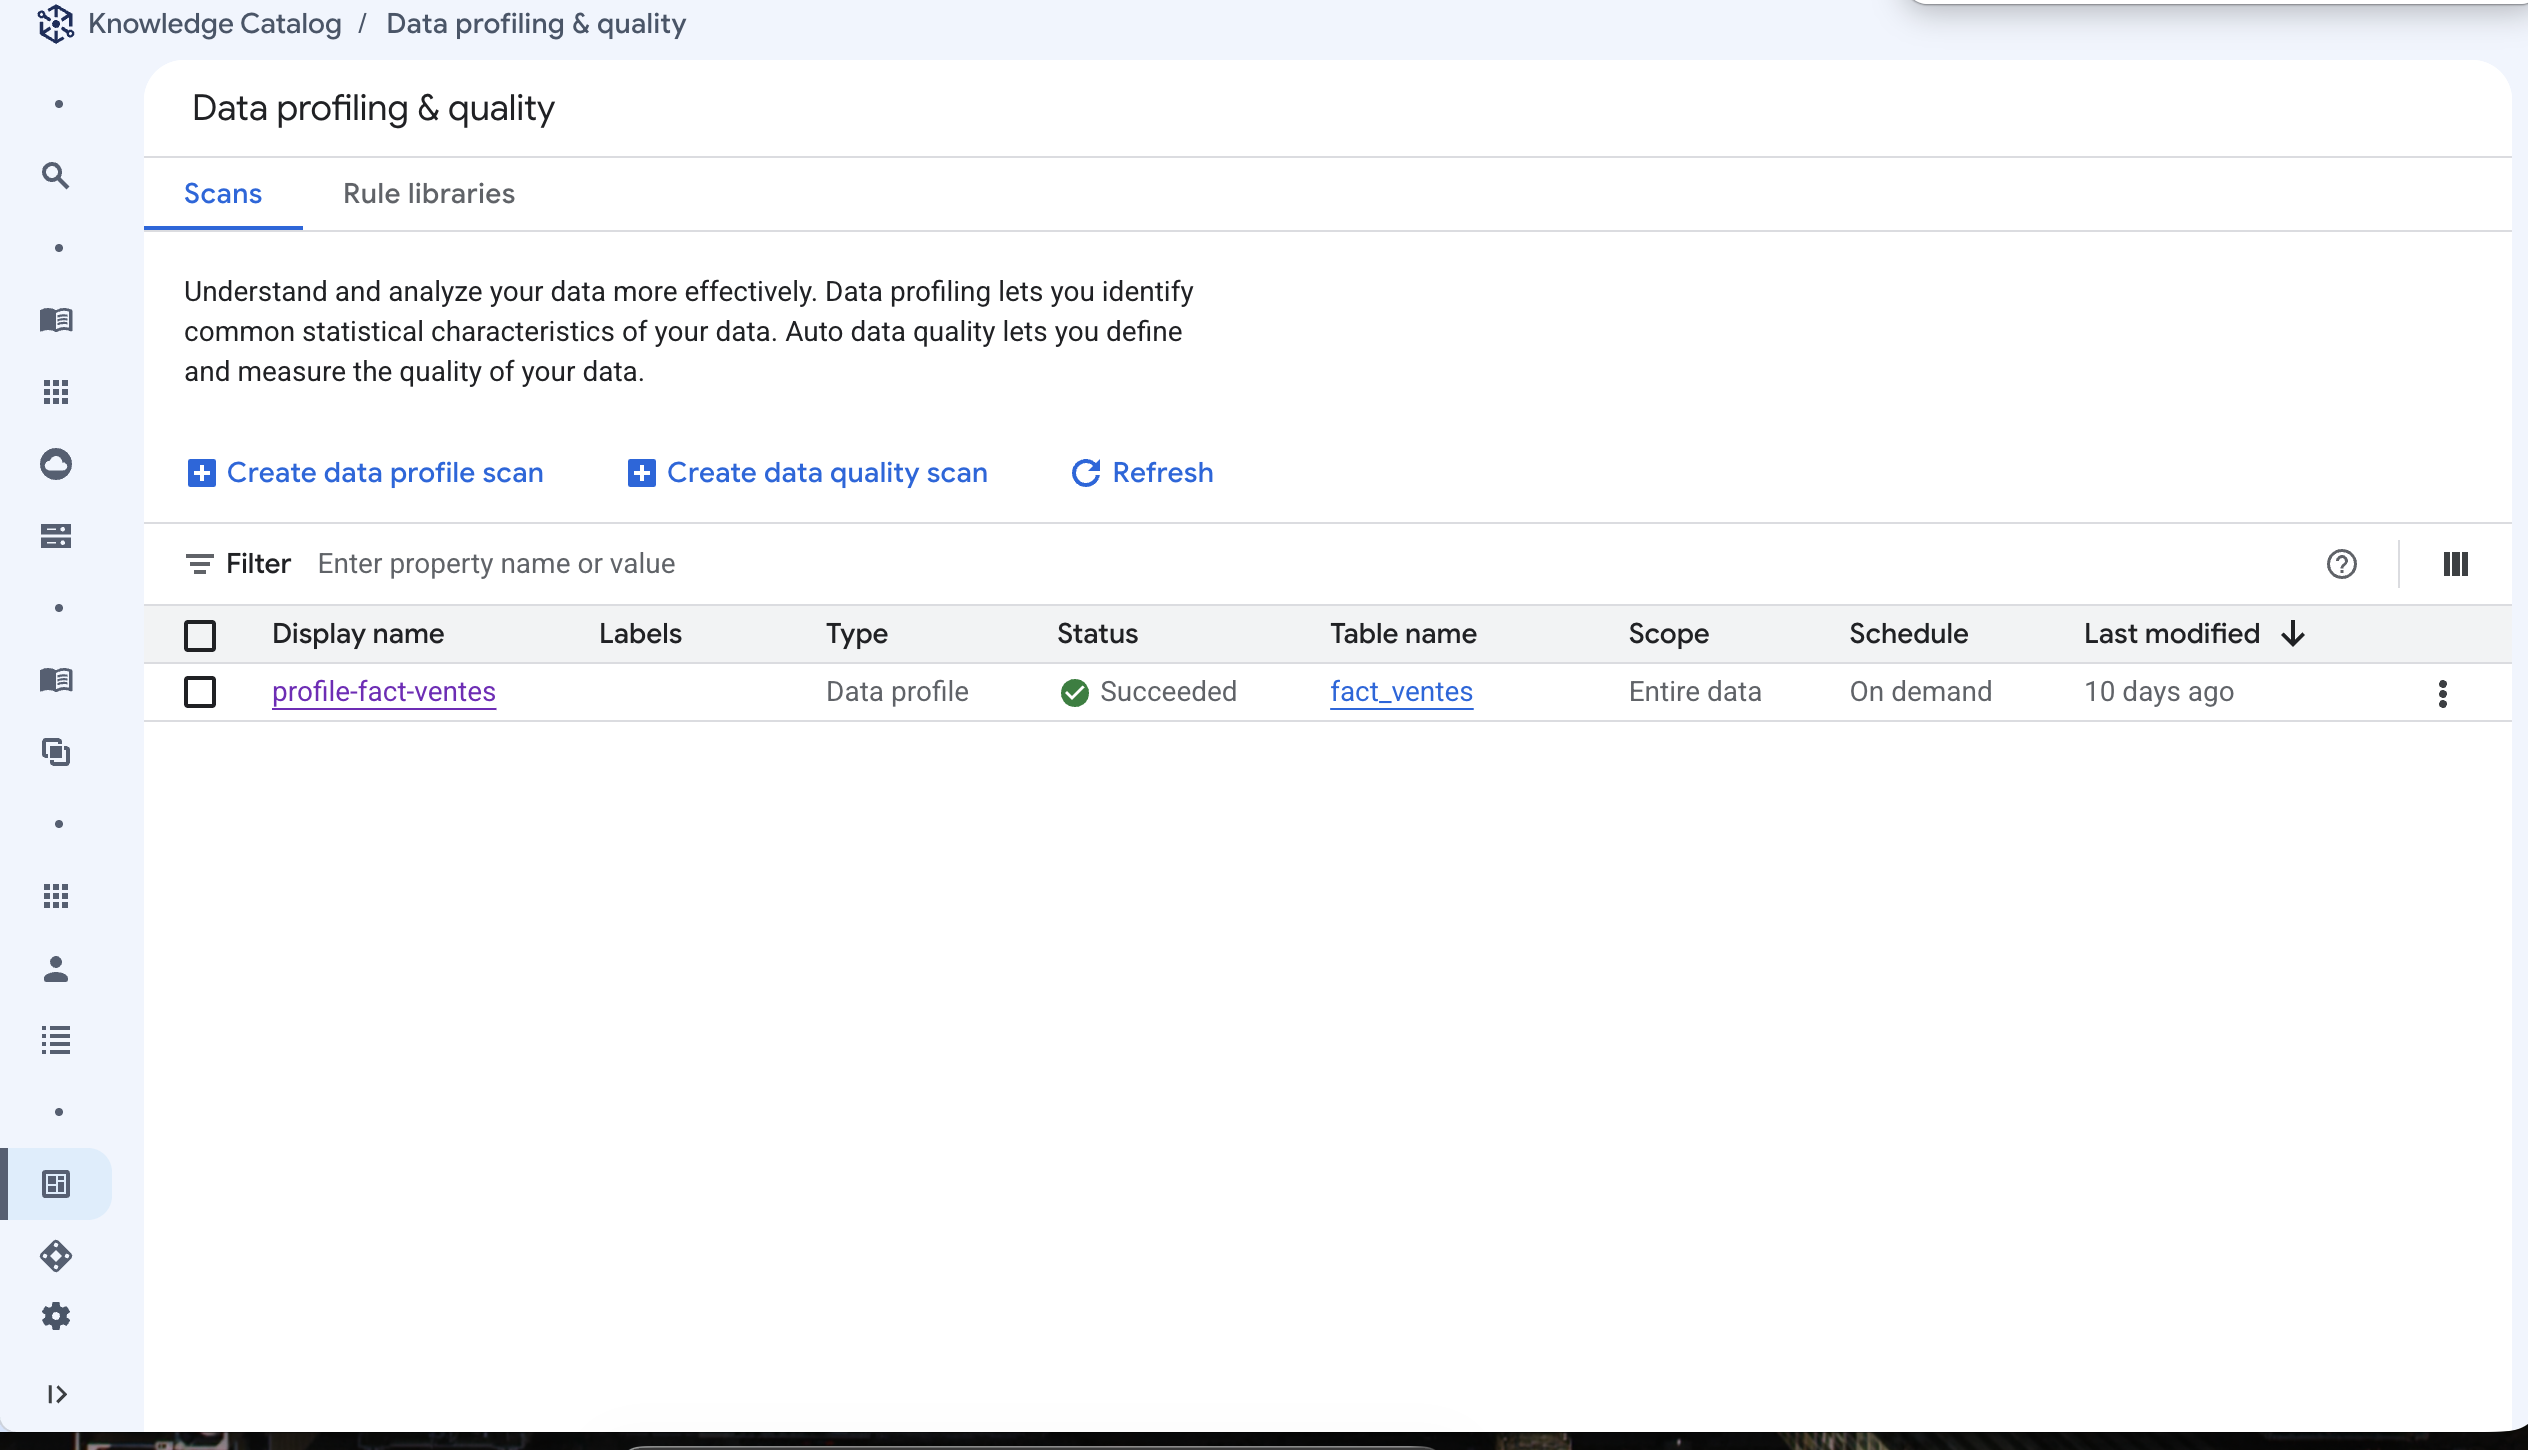
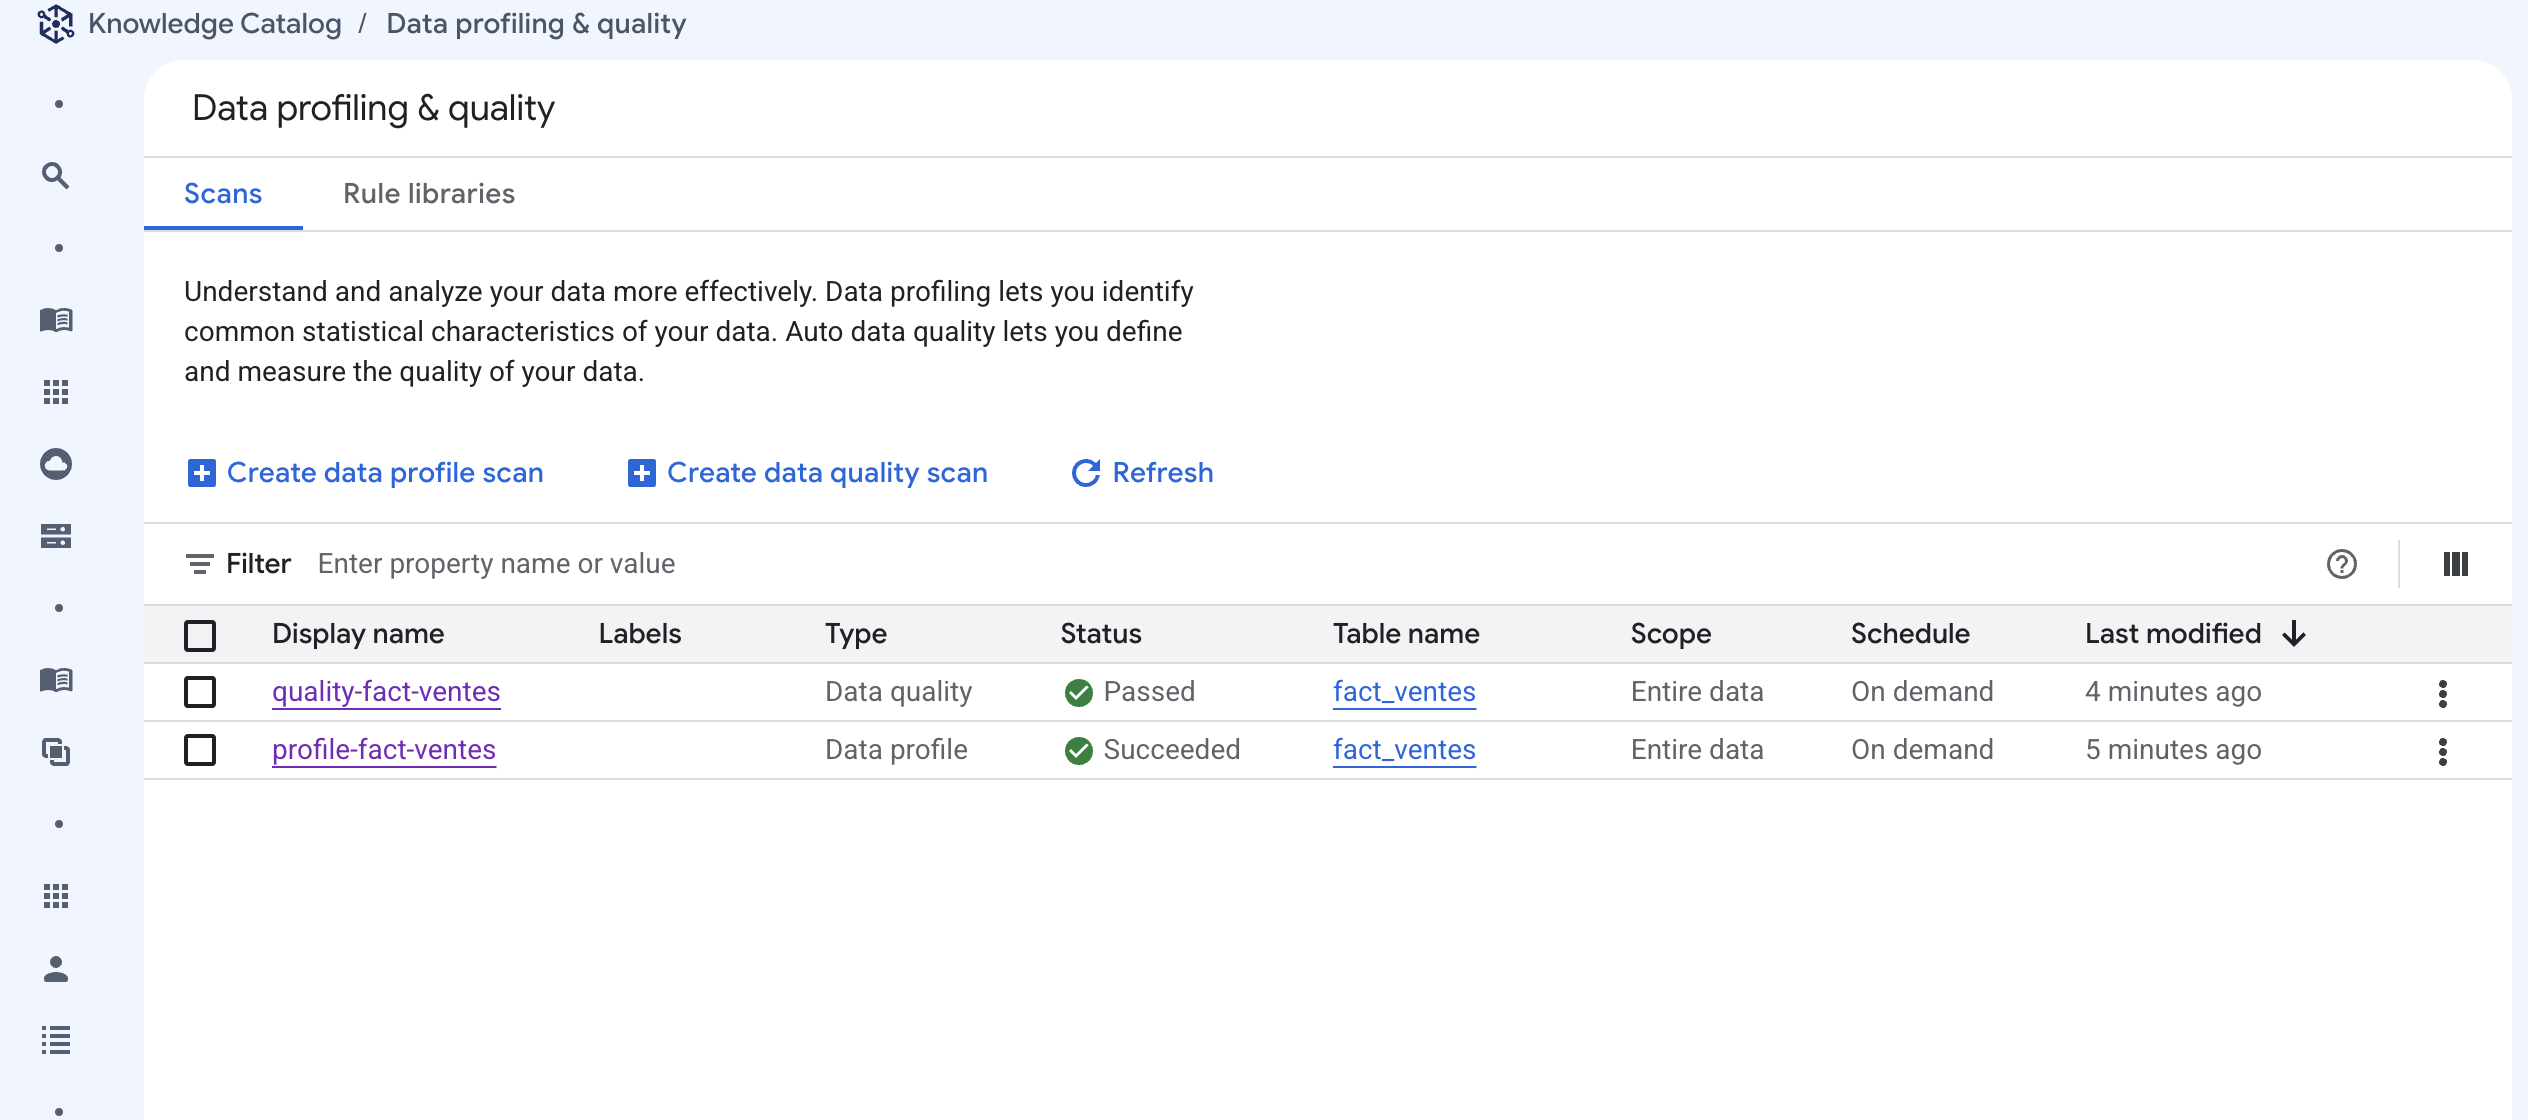
Captures : jeu complet (7) — qualité, profiling, lineage, build_context
- 04 build_context : le catalogue devient la system_instruction (tuto 03)
- 05 détail qualité : 5000 enregistrements, Passed (tuto 02 + run réel)
- 06 détail profiling : historique des 2 exécutions (tuto 02)
- 07 lineage : dim_produit -> fact_ventes, généré automatiquement (tuto 02)
- 02 refaite : les deux scans visibles

Le scan de qualité, supprimé depuis le run, a été recréé et rejoué :
même verdict Passed. Note du run réel corrigée en conséquence.

diff --git a/tutorials/02-dataplex-scans/README.md b/tutorials/02-dataplex-scans/README.md
@@ -74,15 +74,45 @@ Les jobs tournent **en asynchrone** : compte ~2 min avant d'avoir les résultats
 
 ## Vérifier
 
+### 1. Les deux scans sont passés
+
 Console → **Dataplex (« Knowledge Catalog ») › Govern › Data profiling & quality** :
 
 ![Scans Dataplex](../../assets/screenshots/02-dataplex-scans.png)
 
-Tu dois voir tes scans avec `Succeeded` (profiling) et `Passed` (qualité). En cliquant
-sur le scan de qualité : `Records scanned: 5000` et Uniqueness / Completeness / Validity
-toutes **Passed**.
+`profile-fact-ventes` → **Succeeded** et `quality-fact-ventes` → **Passed**.
 
-Le lineage se voit sur `fact_ventes > onglet Lineage` dans BigQuery.
+### 2. Le détail de la qualité
+
+Clique sur `quality-fact-ventes` :
+
+![Détail du scan de qualité](../../assets/screenshots/05-dataplex-quality.png)
+
+`Records scanned: 5000`, `Status: Passed`, et les 3 dimensions **Uniqueness /
+Completeness / Validity** toutes vertes. Ce sont exactement les règles de `dq_spec.yaml`.
+
+### 3. Le détail du profiling
+
+Clique sur `profile-fact-ventes` → **View results** pour les stats par colonne :
+
+![Détail du scan de profiling](../../assets/screenshots/06-dataplex-profiling.png)
+
+L'historique garde les **7 derniers jobs** — pratique pour voir dériver la qualité dans
+le temps.
+
+### 4. Le lineage — la « doc du code », gratuite
+
+`fact_ventes` → onglet **Lineage** dans BigQuery :
+
+![Graphe de lineage dim_produit vers fact_ventes](../../assets/screenshots/07-lineage.png)
+
+👉 **Personne n'a écrit ce graphe.** Il vient du `INSERT … SELECT … JOIN dim_produit` du
+[tutoriel 01](../01-schema-etoile/) : Dataplex a observé le job BigQuery et en a déduit
+que `dim_produit` alimente `fact_ventes`. C'est *ça*, « documenter le code
+automatiquement ».
+
+> ⏳ Le graphe peut rester vide quelques minutes après le chargement — le lineage est
+> asynchrone. Sur ce POC, l'amont n'est apparu qu'après coup.
 
 ## Pièges connus
 

diff --git a/docs/RUN-REEL-2026-07-07.md b/docs/RUN-REEL-2026-07-07.md
@@ -74,13 +74,27 @@ Le dataset `retail_poc` avec ses 5 tables (schéma en étoile) et la colonne
 
 ### Les scans Dataplex — « Knowledge Catalog › Data profiling & quality »
 
-![Scan de profiling Dataplex](../assets/screenshots/02-dataplex-scans.png)
+![Scans Dataplex : profiling Succeeded et qualité Passed](../assets/screenshots/02-dataplex-scans.png)
 
-> ℹ Capture prise le **17 juillet 2026**, soit 10 jours après le run (d'où le
-> « 10 days ago »). Le scan de **qualité** `quality-fact-ventes` a été supprimé
-> entre-temps et n'apparaît plus ; ses résultats du jour du run (Uniqueness /
-> Completeness / Validity → **Passed**, 5 000 enregistrements) sont retranscrits
-> dans le tableau ci-dessus. Le scan de **profiling** est toujours là (Succeeded).
+![Détail du scan de qualité : 5000 enregistrements, Passed](../assets/screenshots/05-dataplex-quality.png)
+
+> ℹ Captures du **17 juillet 2026**. Entre le run et cette date, le scan de **qualité**
+> avait été supprimé ; il a été **recréé et rejoué** à l'identique (`scripts/02_dataplex_scans.sh`)
+> et redonne le même verdict : 5 000 enregistrements, **Passed** sur Uniqueness /
+> Completeness / Validity. Le scan de **profiling** n'a jamais bougé — son historique
+> montre bien les **deux** exécutions (celle du 7 et celle du 17).
+
+### Le lineage — généré automatiquement
+
+![Graphe de lineage : dim_produit alimente fact_ventes](../assets/screenshots/07-lineage.png)
+
+Aucun humain n'a écrit ce graphe : Dataplex a observé le job BigQuery
+`INSERT … SELECT … JOIN dim_produit` et en a déduit la dépendance. C'est la brique
+« documentation du code » du catalogue.
+
+### Le catalogue lu et transformé en contexte d'agent
+
+![Sortie de build_context.py](../assets/screenshots/04-build-context.png)
 
 ## Ce que ça démontre
 

diff --git a/tutorials/03-contexte-agent/README.md b/tutorials/03-contexte-agent/README.md
@@ -81,6 +81,13 @@ Tu es un analyste de données retail. …
 ## dim_client — Dimension CLIENT. Une ligne par client. …
 ```
 
+![Sortie de build_context.py : catalogue complet et system_instruction générée](../../assets/screenshots/04-build-context.png)
+
+*Capture réelle. On voit le catalogue être lu (« ✅ Toutes les colonnes ont une
+description ») puis transformé en `system_instruction` : règles métier, jointures, et
+les descriptions issues du catalogue. **C'est le moment exact où Dataplex devient le
+cerveau de l'agent.***
+
 > ⚠ Si tu vois `⚠ N colonnes SANS description`, **reviens au tutoriel 01**. Chaque
 > colonne non décrite est un angle mort pour l'agent.
 
